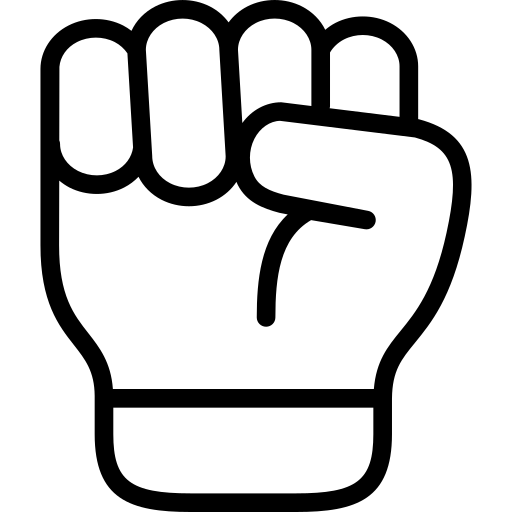
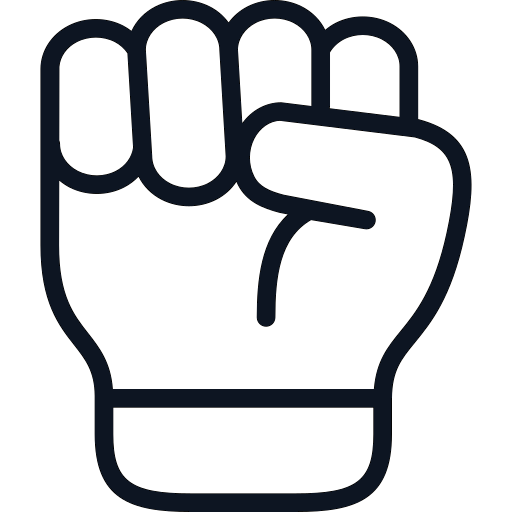
updated image colors, added font family, updated color theme, laid out html skeleton

Changed region(s): [[0.0625, 0.0, 0.9375, 1.0]]

diff --git a/index.html b/index.html
@@ -5,8 +5,28 @@
     <meta http-equiv="X-UA-Compatible" content="IE=edge">
     <meta name="viewport" content="width=device-width, initial-scale=1.0">
     <title>RPS</title>
+    <link rel="preconnect" href="https://fonts.googleapis.com">
+    <link rel="preconnect" href="https://fonts.gstatic.com" crossorigin>
+    <link href="https://fonts.googleapis.com/css2?family=Source+Sans+Pro:ital,wght@0,300;0,700;0,900;1,300&display=swap" rel="stylesheet">
+    <link rel="stylesheet" href="style.css">
+    <!-- <script src="script.js"></script> -->
 </head>
 <body>
-    <script src="script.js"></script>
+    <div class="header">
+        <h2>Rock Paper Scissors</h2>
+    </div>
+    <div class="scoreboard">
+        <div class="round"></div>
+        <div class="scoreboard">
+            <div class="player-score"></div>
+            <div class="scoreboard-center"></div>
+            <div class="computer-score"></div>
+        </div>
+    </div>
+    <div class="choices">
+        <div class="rock-selector"><img src="img/fist.png" alt="credit: cuputo" class="rock"></div>
+        <div class="paper-selector"><img src="img/hand.png" alt="credit: berkahicon" class="paper"></div>
+        <div class="scissors-selector"><img src="img/scissor.png" alt="credit:juicy_fish" class="scissors"></div>
+    </div>
 </body>
 </html>

diff --git a/style.css b/style.css
@@ -1,0 +1,4 @@
+body {
+    font-family: 'Source Sans Pro', sans-serif;
+    background-color: #f6f4ef;
+}
